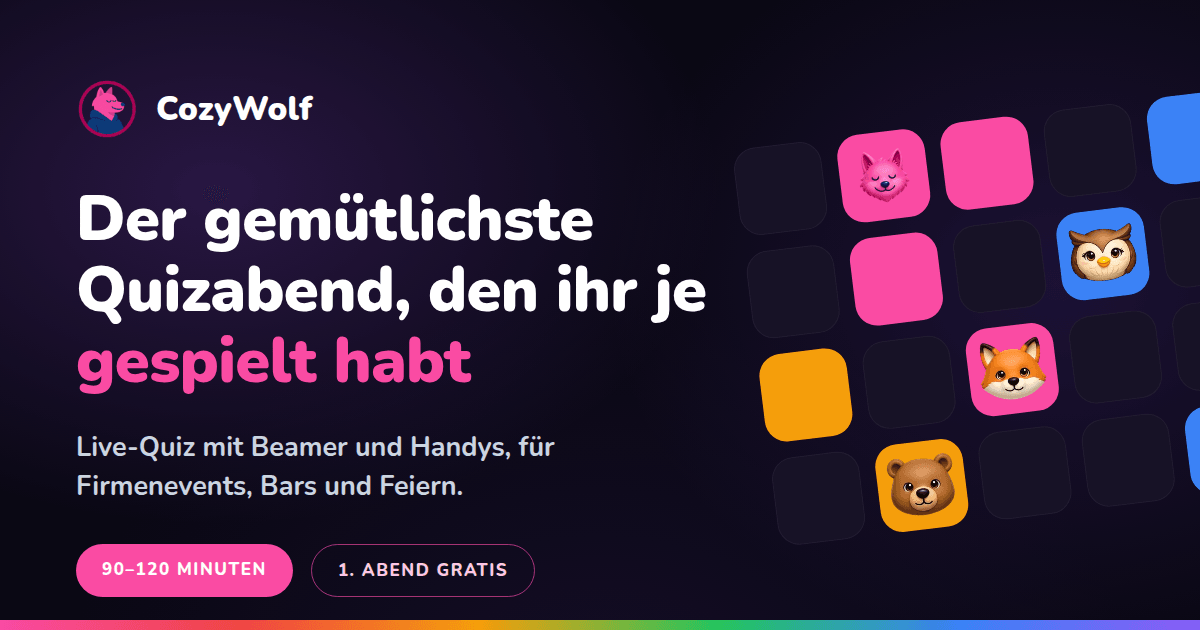
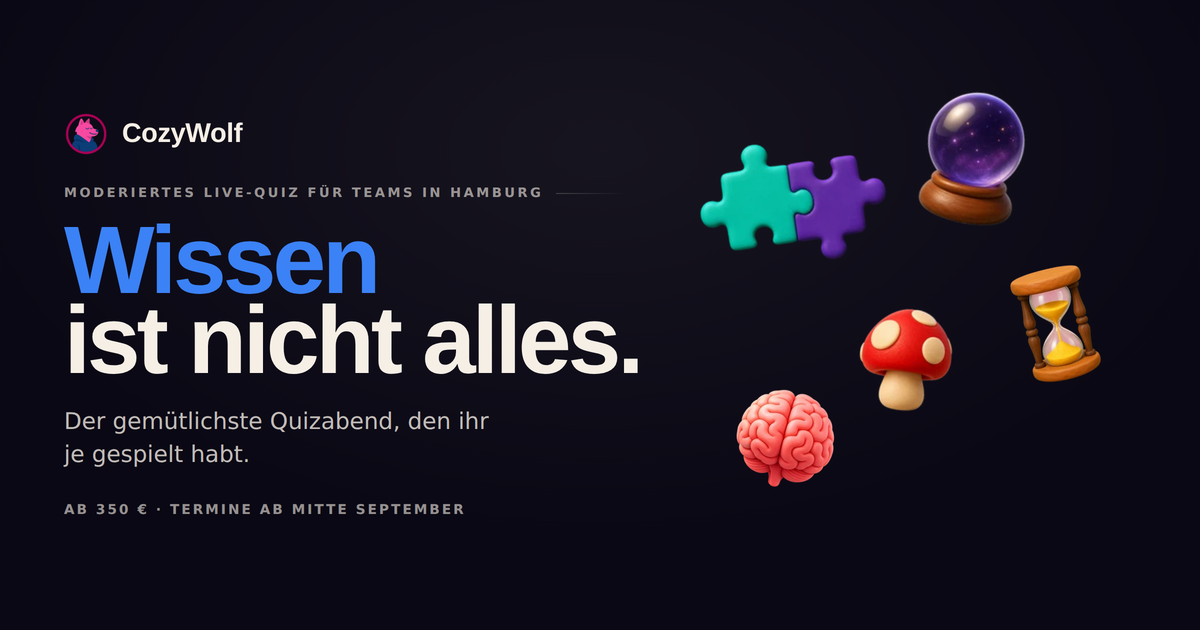
Neues Vorschaubild fuer geteilte Links, diesmal mit Bauanleitung
Wolf: "vorschaubild der website ist komplett veraltet". Stimmt, und der Grund
war nicht Nachlaessigkeit, sondern dass es keine Quelle gab -- das alte Bild
war eine einzelne PNG-Datei ohne Bauanleitung, entstanden vor dem Umbau. Es
zeigte eine Ueberschrift, die es nicht mehr gibt, Tieravatare, die die Seite
nicht mehr benutzt, den alten rosa Akzent statt Creme und "1. Abend gratis"
statt "Gratis fuer Test-Teams".

Jetzt liegt es als Seite in tools/og-cover.html und holt Schriften, Logo und
Objekte ueber /fonts und /assets, also dieselben Dateien wie die Website.
Aendert sich der Kopf, aendert man die Seite mit und baut neu; das Bild kann
so nicht wieder unbemerkt auseinanderlaufen.

Inhalt entspricht dem heutigen Kopf: Kicker "Moderiertes Live-Quiz fuer Teams
in Hamburg", Zeile "Wissen ist nicht alles." mit dem Wort in der Farbe seines
Objekts (#3B82F6, das Gehirn), die Unterzeile, die Objektgruppe und
"Ab 350 EUR, Termine ab Mitte September".

Gerendert in doppelter Groesse und auf 1200x630 gerechnet, kein Farbindex:
der dunkle Verlauf bekaeme sonst Streifen. 279 KB.

diff --git a/tools/og-cover.html b/tools/og-cover.html
@@ -1,0 +1,62 @@
+<!doctype html>
+<!--
+  Das Vorschaubild fuer geteilte Links (og:image), 1200 auf 630.
+
+  Wolf am 28.08.: "vorschaubild der website ist komplett veraltet". Stimmt, und
+  der Grund war nicht Nachlaessigkeit, sondern dass es keine Quelle gab: das
+  alte Bild war eine einzelne PNG-Datei ohne Bauanleitung. Es zeigte eine
+  Ueberschrift, die es nicht mehr gibt, Tieravatare, die die Seite nicht mehr
+  benutzt, und "1. Abend gratis" statt "Gratis fuer Test-Teams".
+
+  Deshalb liegt es jetzt als Seite hier, mit denselben Schriften, Farben und
+  Objekten wie der Kopf der Website. Aendert sich die erste Zeile, aendert man
+  sie hier mit und baut neu.
+
+  Neu bauen:
+    npm run build
+    npx vite preview --port 4192 --strictPort &
+    node tools/og-cover.mjs
+-->
+<html lang="de"><head><meta charset="utf-8">
+<base href="http://localhost:4192/">
+<style>
+@font-face{font-family:'Bricolage Grotesque';font-style:normal;font-weight:200 800;src:url('/fonts/bricolage-grotesque-latin-opsz-variable.woff2') format('woff2-variations');unicode-range:U+0000-00FF,U+0131,U+0152-0153,U+02BB-02BC,U+02C6,U+02DA,U+02DC,U+0304,U+0308,U+0329,U+2000-206F,U+20AC,U+2122,U+2191,U+2193,U+2212,U+2215,U+FEFF,U+FFFD}
+@font-face{font-family:'Bricolage Grotesque';font-style:normal;font-weight:200 800;src:url('/fonts/bricolage-grotesque-latin-ext-opsz-variable.woff2') format('woff2-variations');unicode-range:U+0100-02BA,U+02BD-02C5,U+02C7-02CC,U+02CE-02D7,U+02DD-02FF,U+0304,U+0308,U+0329,U+1D00-1DBF,U+1E00-1E9F,U+1EF2-1EFF,U+2020,U+20A0-20AB,U+20AD-20C0,U+2113,U+2C60-2C7F,U+A720-A7FF}
+@font-face{font-family:'League Spartan';font-weight:900;src:url('/fonts/league-spartan-latin-900-normal.woff2') format('woff2')}
+*{margin:0;padding:0;box-sizing:border-box}
+body{width:1200px;height:630px;overflow:hidden;background:#0A0814;font-family:'Bricolage Grotesque',system-ui,sans-serif;color:#F6EFE6}
+.blatt{position:relative;width:1200px;height:630px;padding:56px 64px;display:flex;align-items:center;gap:24px}
+.schein{position:absolute;left:50%;top:-300px;transform:translateX(-50%);width:1500px;height:900px;
+  background:radial-gradient(ellipse at center,rgba(246,239,230,.055),rgba(10,8,20,0) 62%);pointer-events:none}
+.links{position:relative;z-index:2;flex:1;min-width:0}
+.marke{display:flex;align-items:center;gap:14px;margin-bottom:30px}
+.marke img{width:44px;height:44px}
+.marke span{font-family:'League Spartan',sans-serif;font-weight:900;font-size:27px;letter-spacing:-.01em}
+.kicker{display:flex;align-items:center;gap:13px;white-space:nowrap;font-size:13px;font-weight:900;letter-spacing:.2em;text-transform:uppercase;color:rgba(246,239,230,.62);margin-bottom:20px}
+.kicker i{display:block;width:70px;height:1px;flex:none;background:linear-gradient(90deg,rgba(246,239,230,.20),transparent)}
+h1{font-family:'League Spartan',sans-serif;font-weight:900;font-size:96px;line-height:.84;letter-spacing:-.038em;white-space:nowrap}
+h1 em{font-style:normal;color:#3B82F6}
+p.sub{margin-top:24px;font-size:23px;line-height:1.45;font-weight:500;color:rgba(246,239,230,.78);max-width:30ch}
+.fuss{margin-top:30px;font-size:13.5px;font-weight:900;letter-spacing:.16em;text-transform:uppercase;color:rgba(246,239,230,.62)}
+.rechts{position:relative;z-index:3;flex:none;width:470px;height:470px;align-self:center;margin-right:-14px}
+.rechts img{position:absolute;border-radius:16%}
+</style></head>
+<body>
+<div class="blatt">
+  <div class="schein"></div>
+  <div class="links">
+    <div class="marke"><img src="/logo.webp" alt=""><span>CozyWolf</span></div>
+    <div class="kicker">Moderiertes Live-Quiz für Teams in Hamburg<i></i></div>
+    <h1><em>Wissen</em><br>ist nicht alles.</h1>
+    <p class="sub">Der gemütlichste Quizabend, den ihr je gespielt habt.</p>
+    <div class="fuss">Ab 350 € · Termine ab Mitte September</div>
+  </div>
+  <div class="rechts">
+    <img src="/assets/obj-puzzle.webp"         style="left:4%;top:6%;width:40%;transform:rotate(-8deg)">
+    <img src="/assets/av-qq-crystal-ball.webp" style="left:46%;top:0%;width:33%;transform:rotate(10deg)">
+    <img src="/assets/av-qq-mushroom.webp"     style="left:33%;top:44%;width:30%;transform:rotate(6deg)">
+    <img src="/assets/obj-sanduhr.webp"        style="left:68%;top:40%;width:24%;transform:rotate(-14deg)">
+    <img src="/assets/obj-gehirn.webp"         style="left:12%;top:66%;width:21%;transform:rotate(14deg)">
+  </div>
+</div>
+</body></html>
